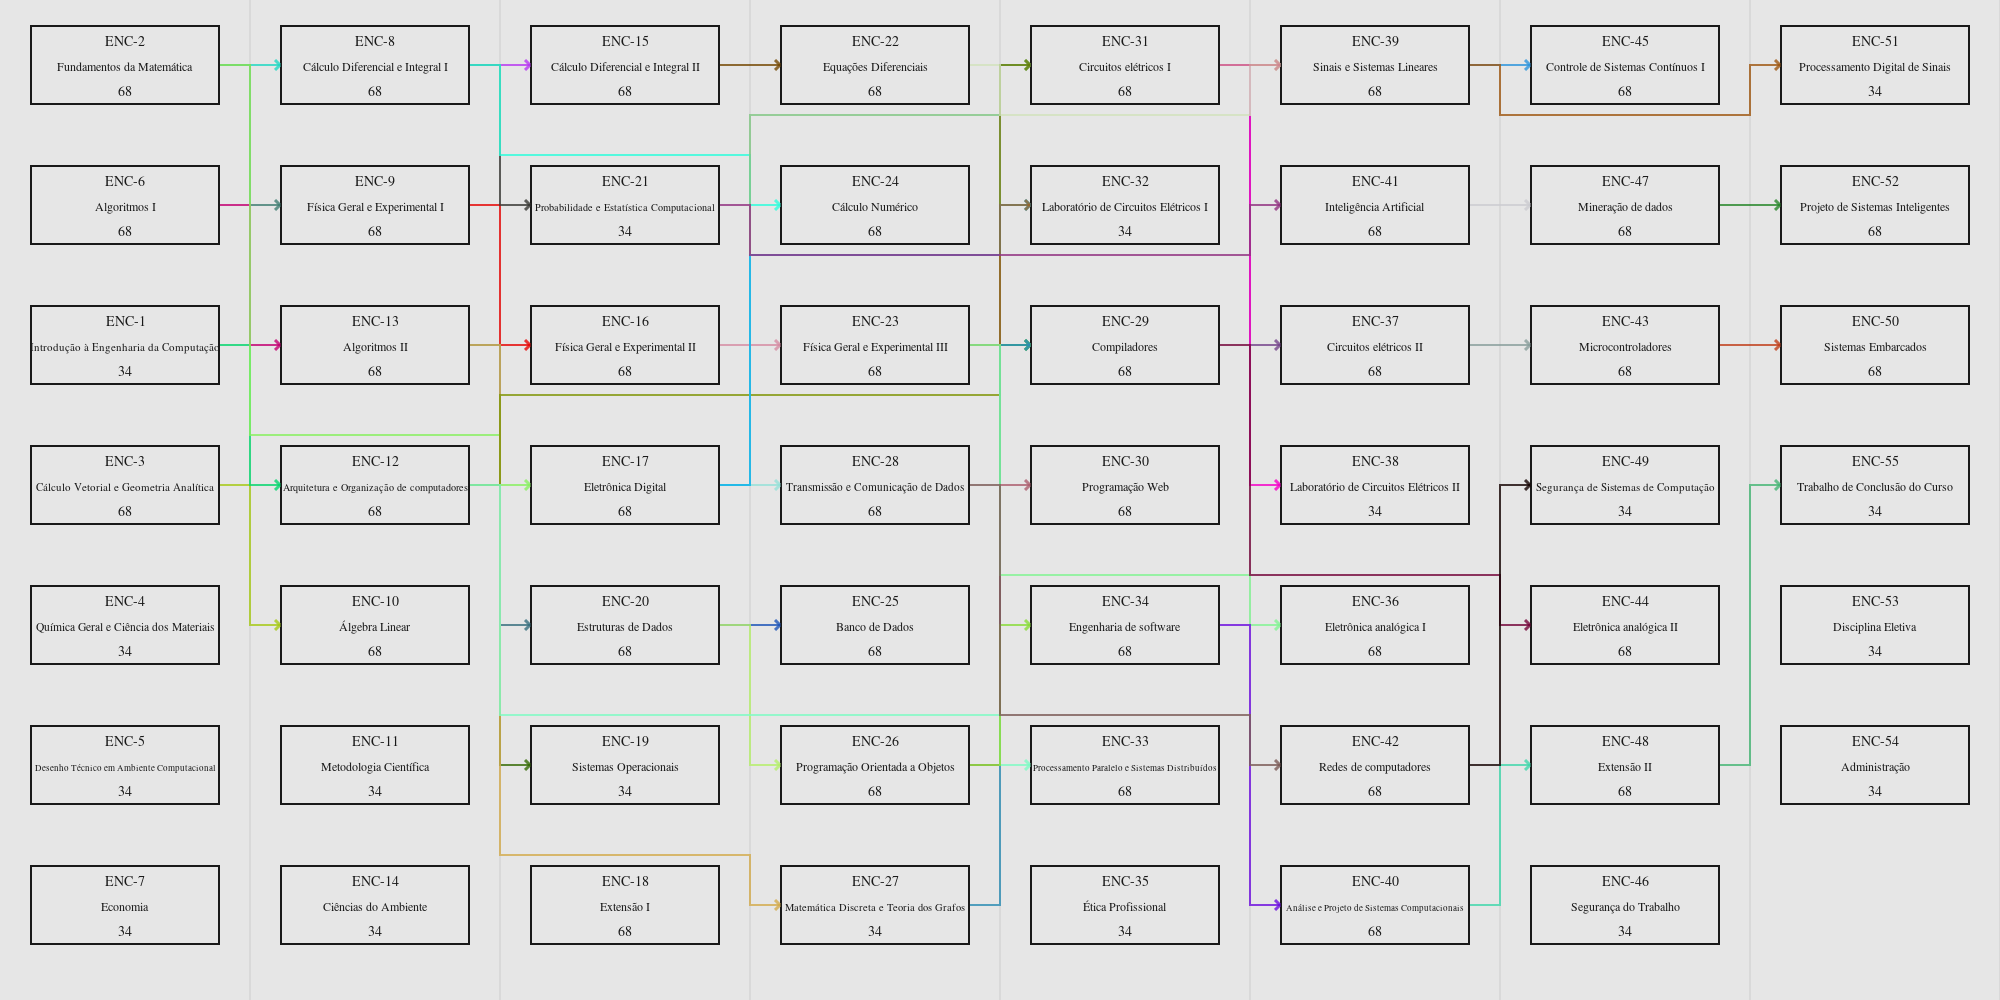
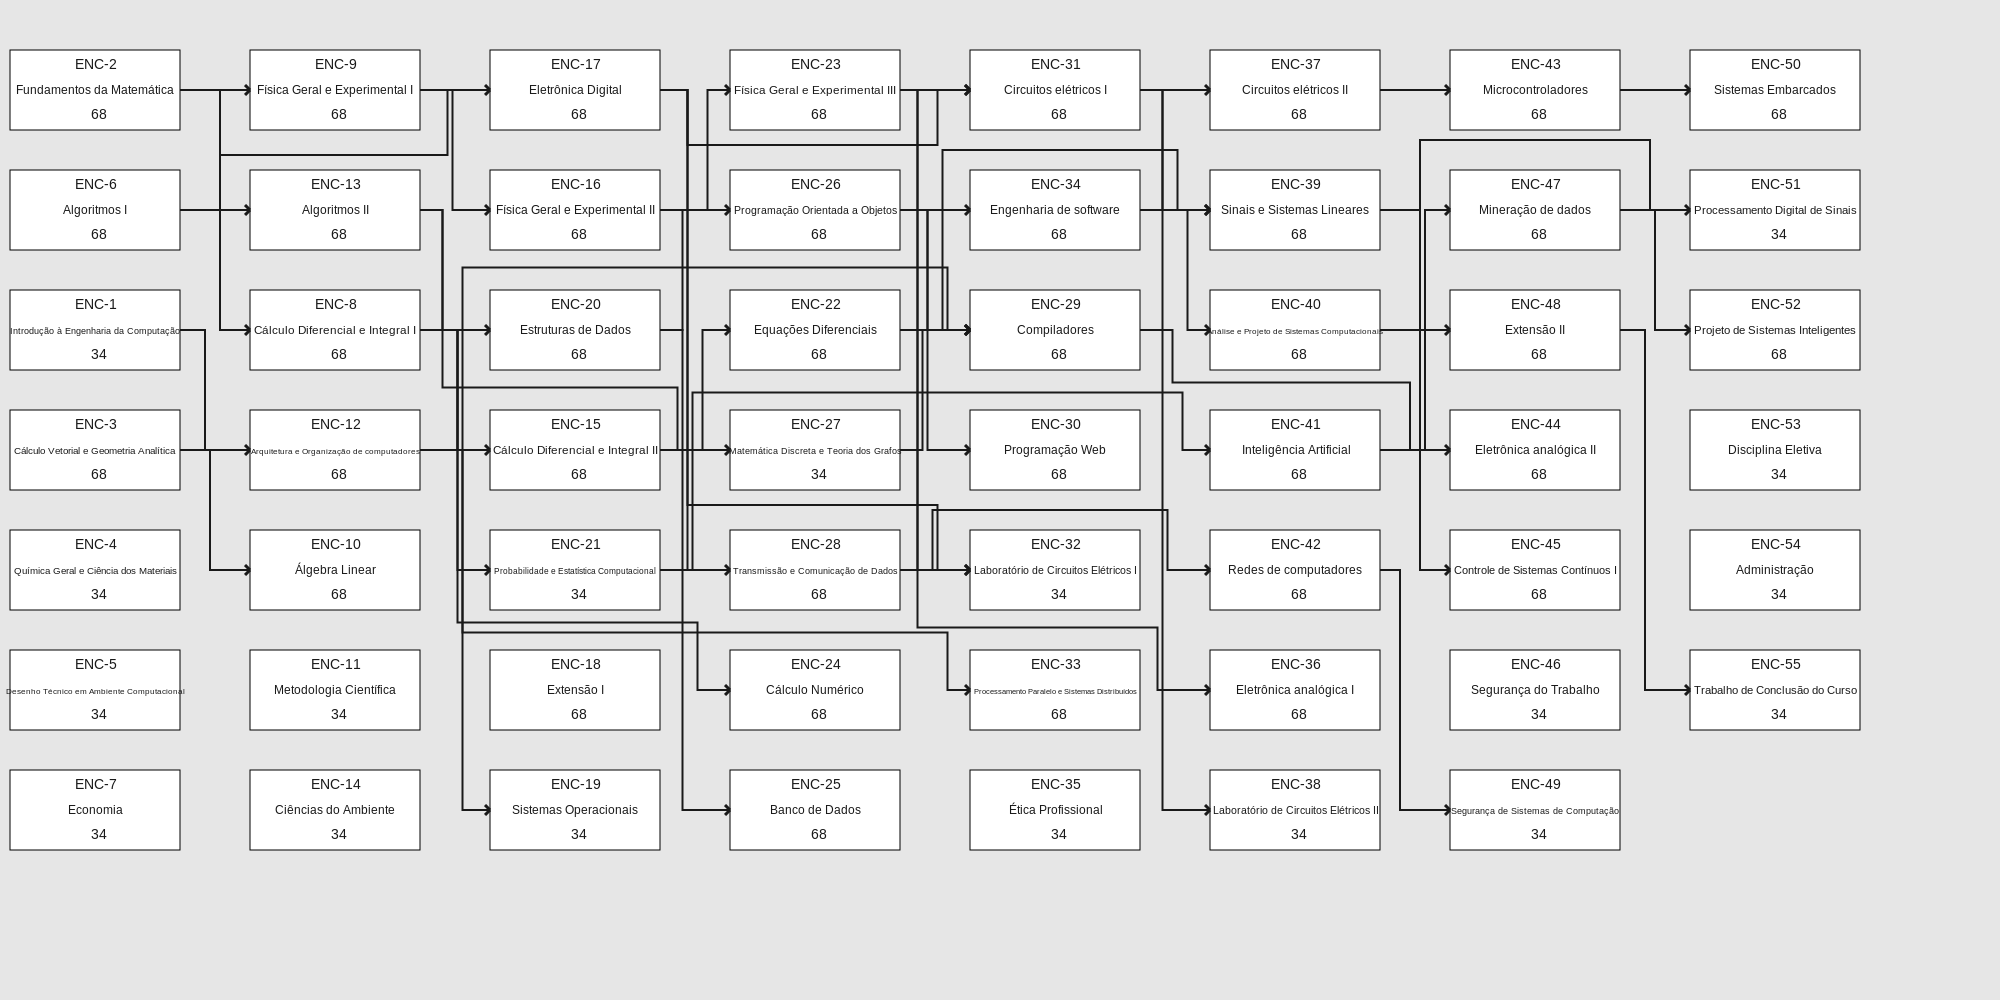
optimize edges algorithm

diff --git a/draw.py b/draw.py
@@ -10,19 +10,41 @@ random.seed(1)
 
 surface = cairo.ImageSurface(cairo.FORMAT_ARGB32, WIDTH, HEIGHT)
 ctx = cairo.Context(surface)
-ctx.select_font_face("Times", cairo.FONT_SLANT_NORMAL, cairo.FONT_WEIGHT_NORMAL)
+ctx.select_font_face("Arial", cairo.FONT_SLANT_NORMAL, cairo.FONT_WEIGHT_NORMAL)
 colors = [(random.random(), random.random(), random.random(), .8) for i in range(50)]
 
-lanes = {} # identified by index
+
+class Configuration:
+    col = 8
+    lin = 7
+    gap_v = 40
+    gap_h = 70
+    line_offset = 5
+    box_width = 170
+    box_height = 80
+    start_point = (10, 50)
+
+class BoxConfiguration:
+    margin_size=30
+    border_size=1
+    padding_size=4
+    color=(.1, .1, .1)
+    bg_color=(1, 1, 1)
+    border_color=(0, 0, 0)
+    
+
+box = dict()    
+    
+    
 lane_count = {} # number of discipline per lane
-discipline = defaultdict(dict) # identified by code
-gaps_h = defaultdict(set)
-gaps_v = defaultdict(set)
+disciplines = defaultdict(dict) # identified by code
 
 def draw_background(*color):
+    ctx.save()
     ctx.set_source_rgb(*color)
     ctx.rectangle(0, 0, WIDTH, HEIGHT)
     ctx.fill()
+    ctx.restore()
 
 
 def set_font_size_and_get_width(font_size, text):
@@ -65,109 +87,101 @@ def draw_text_centered(x, y, text, width):
     ctx.move_to(x + (width / 2 - w / 2), y)
     ctx.show_text(text)
     
-def draw_rectangle(xi, yi, xf, yf, color, border_color, border_size):
-    ctx.set_source_rgb(*border_color)
-    ctx.rectangle(xi, yi, xf - xi, yf - yi)
+def draw_rectangle(xi, yi, xf, yf, bconfig):
+    ctx.set_source_rgb(*bconfig.bg_color)
+    ctx.rectangle(xi, yi, xf-xi, yf-yi)
     ctx.fill()
 
-    xi += border_size
-    yi += border_size
-    xf -= border_size
-    yf -= border_size
-    
-    ctx.set_source_rgb(*color)
-    ctx.rectangle(xi, yi, xf - xi, yf - yi)
-    ctx.fill()
-    return xi, yi, xf, yf
+    ctx.set_source_rgb(*bconfig.border_color)
+    ctx.set_line_width(bconfig.border_size)
+    ctx.rectangle(xi, yi, xf-xi, yf-yi)
+    ctx.stroke()
 
-def draw_lanes(n_lanes, color=(1, 0, 0), line_width=1):
-    ctx.set_source_rgb(*color)
-    width = WIDTH // n_lanes
-    ctx.set_line_width(line_width)
+def draw_box(code, name, duration, i, j, bconfig, gconfig):
+    xi = gconfig.start_point[0] + (gconfig.box_width + gconfig.gap_h) * j
+    xf = xi + gconfig.box_width
+    yi = gconfig.start_point[1] + (gconfig.box_height + gconfig.gap_v) * i
+    yf = yi + gconfig.box_height
     
-    for i in range(n_lanes):
-        ctx.move_to((i + 1) * width, 0)
-        ctx.line_to((i + 1) * width, HEIGHT)
-        ctx.stroke()
-        lanes[i + 1] = (i * width, (i + 1) * width)
-        lane_count[i + 1] = 0
-        
-
-def draw_discipline(code, name, duration, semester, lanes, margin_size=30,
-                    border_size=4, padding_size=4, color=(.1, .1, .1), bg_color=(1, 1, 1),
-                    border_color=(0, 0, 0)):
-    xi, xf = lanes[semester]
-    index_v = lane_count[semester]
-    
-    xi += margin_size
-    xf -= margin_size
-    yi = 25 + 140 * index_v
-    yf =  yi + 80
-    discipline[code]["geometry"] = {
+    disciplines[code]["geometry"] = {
         "back": (xi, middle(yi, yf)),
         "front": (xf, middle(yi, yf)),
-        "index_y": index_v
+        "xi": xi,
+        "xf": xf,
+        "yi": yi,
+        "yf": yf,
+        "i": i,
     }
     
-    xi, yi, xf, yf = draw_rectangle(xi, yi, xf, yf, bg_color, border_color,
-                                    border_size)
+    draw_rectangle(xi, yi, xf, yf, bconfig)
+    xi, yi, xf, yf = xi + bconfig.padding_size, yi + bconfig.padding_size, xf - bconfig.padding_size, yf - bconfig.padding_size
+    ctx.set_source_rgb(*bconfig.color)
+    draw_text_centered(xi, yi + 15, code, xf-xi) ## draw discipline's code
+    draw_text_centered_f(xi, yi + 40, name, xf-xi, max_font_size=12) ## draw discipline's name
+    draw_text_centered(xi, yi + 65, str(duration), gconfig.box_width) ## draw discipline's durantion
 
-    xi, yi, xf, yf = xi + padding_size, yi + padding_size, xf - padding_size, yf - padding_size
-    width = xf - xi
-    ctx.set_source_rgb(*color)
-    draw_text_centered(xi, yi + 15, code, width) ## draw discipline's code
-    draw_text_centered_f(xi, yi + 40, name, width, max_font_size=12) ## draw discipline's name
-    draw_text_centered(xi, yi + 65, str(duration), width) ## draw discipline's durantion
-    lane_count[semester] += 1   
+def get_gap_v(j, gconfig):
+    xi = gconfig.start_point[0] + (gconfig.box_width + gconfig.gap_h) * j + gconfig.box_width
+    xf = xi + gconfig.gap_h
+    return xi, xf
 
+def get_gap_h(i, gconfig):
+    yi = gconfig.start_point[1] + (gconfig.box_height + gconfig.gap_v) * i + gconfig.box_height
+    yf = yi + gconfig.gap_v
+    return yi, yf  
 
-def reserve(src_code, dst_code, discipline):
-    src = discipline[src_code]["geometry"]["front"]
-    dst = discipline[dst_code]["geometry"]["back"]
-
-    gaps_v[discipline[src_code]["meta-data"]["semester"] - 1].add(src_code)
-    gaps_v[discipline[dst_code]["meta-data"]["semester"] - 2].add(src_code)
-    if discipline[src_code]["meta-data"]["semester"] + 1 < discipline[dst_code]["meta-data"]["semester"]:
-        if discipline[src_code]["geometry"]["index_y"] < discipline[dst_code]["geometry"]["index_y"]:
-            gaps_h[discipline[dst_code]["geometry"]["index_y"] + 1].add(src_code)
-        else:
-            gaps_h[discipline[src_code]["geometry"]["index_y"]].add(src_code)
-
-def calculate_offsets(reservation):
-    offsets = dict()
-    return offsets
+def reserve(src_code, dst_code, hor, vert, gconfig):
+    src, dst = disciplines[src_code], disciplines[dst_code]
+    vert[src["semester"] - 1].append(src_code)
+    vert[dst["semester"] - 2].append(src_code)
     
-def connect(src_code, dst_code, discipline, lanes, line_width=2, arrow_width=3, color=(0.1, 0.1, 0.1)):
+    if src["semester"] + 1 < dst["semester"]:
+        if src["geometry"]["i"] == 0 == dst["geometry"]["i"]:
+            hor[0].append(src_code)
+        else:
+            hor[dst["geometry"]["i"] - 1].append(src_code)
+        
+def alloc(direction, func, gconfig):
+    lines = defaultdict(lambda: defaultdict(float))
+    for i, codes in direction.items():
+        yi, yf = func(i) # calculate the init and end of the gap
+        mid = (yf + yi) / 2
+        start = mid - gconfig.line_offset * len(set(codes)) / 2
+        for code in set(codes):
+            lines[i][code] = start
+            start += gconfig.line_offset
+    return lines
+                
+def connect(src_code, dst_code, h, v, line_width=2, arrow_width=3, color=(0.1, 0.1, 0.1)):
     ctx.save()
     ctx.set_line_width(line_width)
-    
     ctx.set_source_rgba(*color)
-    src = discipline[src_code]["geometry"]["front"]
-    dst = discipline[dst_code]["geometry"]["back"]
-    ctx.move_to(*src)
-    if discipline[src_code]["meta-data"]["semester"] + 1 == discipline[dst_code]["meta-data"]["semester"]:
-        ctx.line_to(lanes[discipline[src_code]["meta-data"]["semester"]][1], discipline[src_code]["geometry"]["front"][1])
-        ctx.line_to(lanes[discipline[src_code]["meta-data"]["semester"]][1], discipline[dst_code]["geometry"]["back"][1])
-        ctx.line_to(*dst)
-    else:
-        ctx.line_to(lanes[discipline[src_code]["meta-data"]["semester"]][1], discipline[src_code]["geometry"]["front"][1])
-        if discipline[src_code]["geometry"]["back"][1] < discipline[dst_code]["geometry"]["back"][1]:
-            yf = discipline[dst_code]["geometry"]["back"][1] - 50
+    
+    src = disciplines[src_code]
+    dst = disciplines[dst_code]
+    p0, pf = src["geometry"]["front"], dst["geometry"]["back"]
+    
+    ctx.move_to(*p0)
+    ctx.line_to(v[src["semester"] - 1][src_code], p0[1])
+    if src["semester"] + 1 < dst["semester"]:
+        if src["geometry"]["i"] == 0 == dst["geometry"]["i"]:
+            y = h[0][src_code]
         else:
-            yf = discipline[dst_code]["geometry"]["back"][1] + 50
-        ctx.line_to(lanes[discipline[src_code]["meta-data"]["semester"]][1], yf)
-        ctx.line_to(lanes[discipline[dst_code]["meta-data"]["semester"]][0], yf)
-        ctx.line_to(lanes[discipline[dst_code]["meta-data"]["semester"]][0], dst[1])
-        ctx.line_to(*dst)
+            y = h[dst["geometry"]["i"] - 1][src_code]
+        ctx.line_to(v[src["semester"] - 1][src_code], y)
+        ctx.line_to(v[dst["semester"] - 2][src_code], y)
+    ctx.line_to(v[dst["semester"] - 2][src_code], pf[1])
+    ctx.line_to(*pf)
+    
     ctx.stroke()
 
     ctx.set_line_width(arrow_width)
     
-    ctx.move_to(*dst)
+    ctx.move_to(*pf)
     ctx.rel_line_to(-5, -5)
     ctx.stroke()
 
-    ctx.move_to(*dst)
+    ctx.move_to(*pf)
     ctx.rel_line_to(-5, +5)
     ctx.stroke()
 
@@ -176,14 +190,16 @@ def connect(src_code, dst_code, discipline, lanes, line_width=2, arrow_width=3, 
 
 def main():
     draw_background(0.9, 0.9, 0.9)
-    draw_lanes(8, color=(0.8, 0.8, 0.8))
 
-    df = pd.read_csv("matrix.csv")
+
+    bconfig = BoxConfiguration()
+    gconfig = Configuration()
+    df = pd.read_csv("matrix.csv")        
     requirements = []
     G = nx.DiGraph()
-    
+
     for i, row in df.iterrows():
-        discipline[row["code"]]["meta-data"] = {
+        disciplines[row["code"]] = {
             "code": row["code"],
             "name": row["name"],
             "duration": row["duration"],
@@ -206,31 +222,34 @@ def main():
     paths.sort(key=lambda l:-len(l))
 
     already_drawn = []
+    free = Counter()
     for path in paths:
         if not len(path):
             continue
+        code = path[0][0]
+        discipline = disciplines[code]
+        if code not in already_drawn:
+            already_drawn.append(code)
+            draw_box(discipline["code"], discipline["name"], discipline["duration"], free[discipline["semester"] - 1], discipline["semester"] - 1, bconfig, gconfig)
+            free[discipline["semester"] - 1] += 1
 
-        border_color = (.1, .1, .1)
-        border_size = 2
-        data = discipline[path[0][0]]["meta-data"]
-        if data["code"] not in already_drawn:
-            already_drawn.append(data["code"])
-            draw_discipline(data["code"], data["name"], data["duration"], data["semester"], lanes, bg_color=(.9, .9, .9), border_color=border_color, border_size=border_size)
-        for src, dst in path:
-            data = discipline[dst]["meta-data"]
-            if data["code"] not in already_drawn:
-                already_drawn.append(data["code"])
-                draw_discipline(data["code"], data["name"], data["duration"], data["semester"], lanes, bg_color=(0.9, 0.9, 0.9), border_color=border_color, border_size=border_size)
-
-    for d in discipline:
-        if d not in already_drawn:
-            data = discipline[d]["meta-data"]
-            draw_discipline(data["code"], data["name"], data["duration"], data["semester"], lanes, bg_color=(0.9, 0.9, 0.9), border_color=border_color, border_size=border_size)
+    for code in disciplines:
+        discipline = disciplines[code]
+        if code not in already_drawn:
+            draw_box(discipline["code"], discipline["name"], discipline["duration"], free[discipline["semester"] - 1], discipline["semester"] - 1, bconfig, gconfig)
+            free[discipline["semester"] - 1] += 1
             
+
+    hor, vert = defaultdict(list), defaultdict(list)
     for i, req in enumerate(requirements):
-        reservation = reserve(req[0], req[1], discipline)
-        offsets = calculate_offsets(reservation)
-        connect(req[0], req[1], discipline, lanes, offsets, color=colors[i])
+        reserve(req[0], req[1], hor, vert, gconfig)
+
+    h = alloc(hor, lambda x: get_gap_h(x, gconfig), gconfig)
+    v = alloc(vert, lambda x: get_gap_v(x, gconfig), gconfig)
+
+    for i, req in enumerate(requirements):
+        connect(req[0], req[1], h, v)
+
 
 
     surface.write_to_png("v1.png")  # Output to PNG
